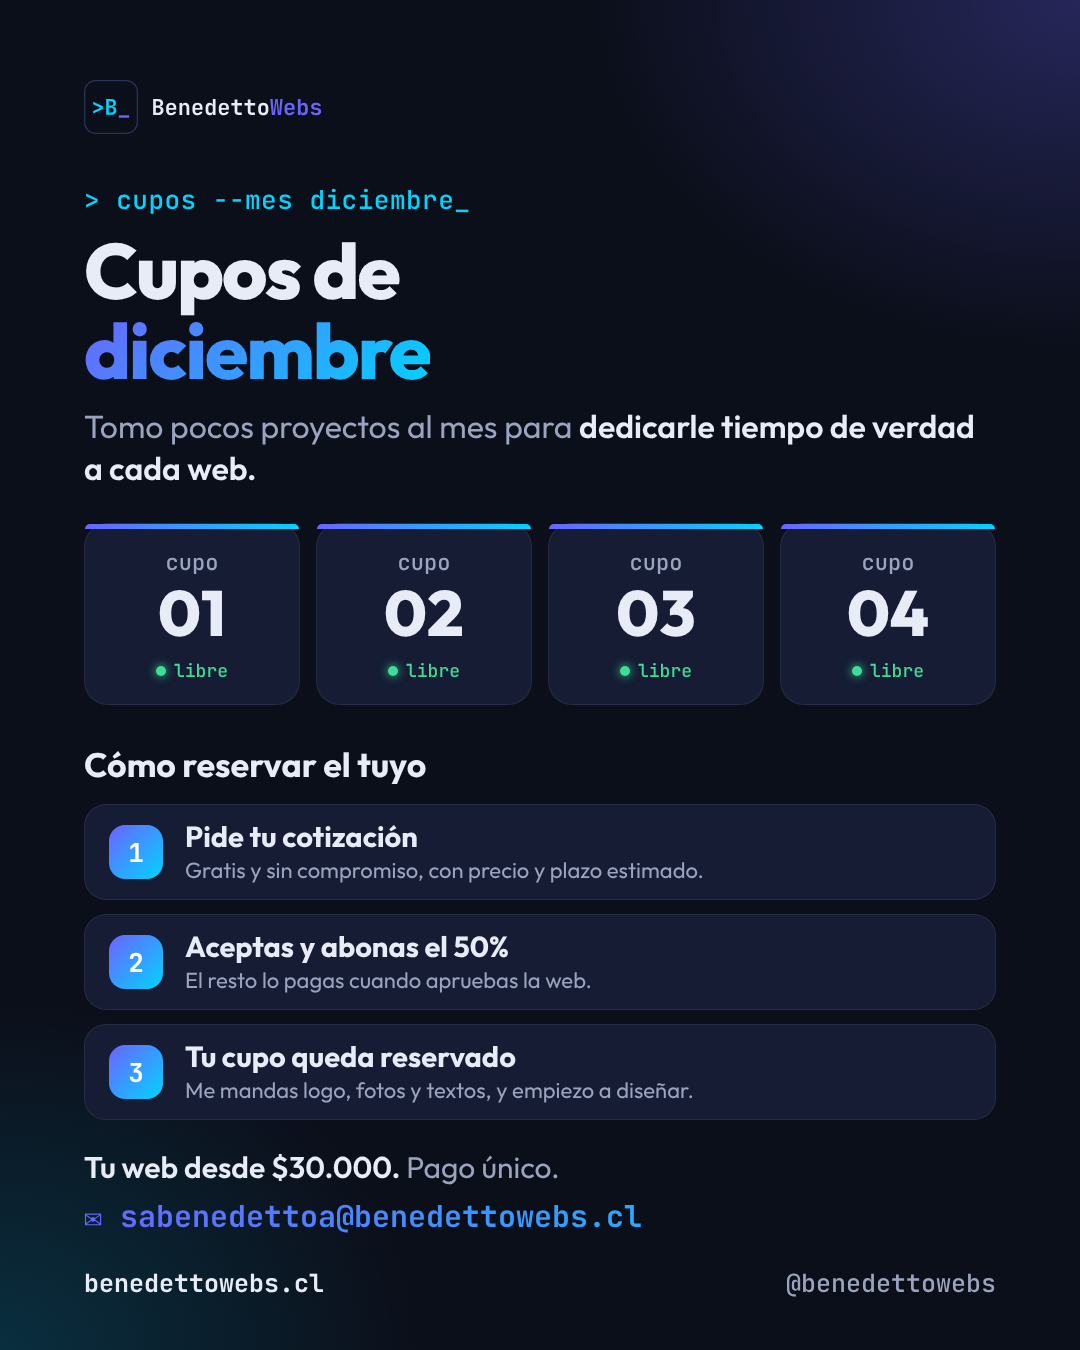
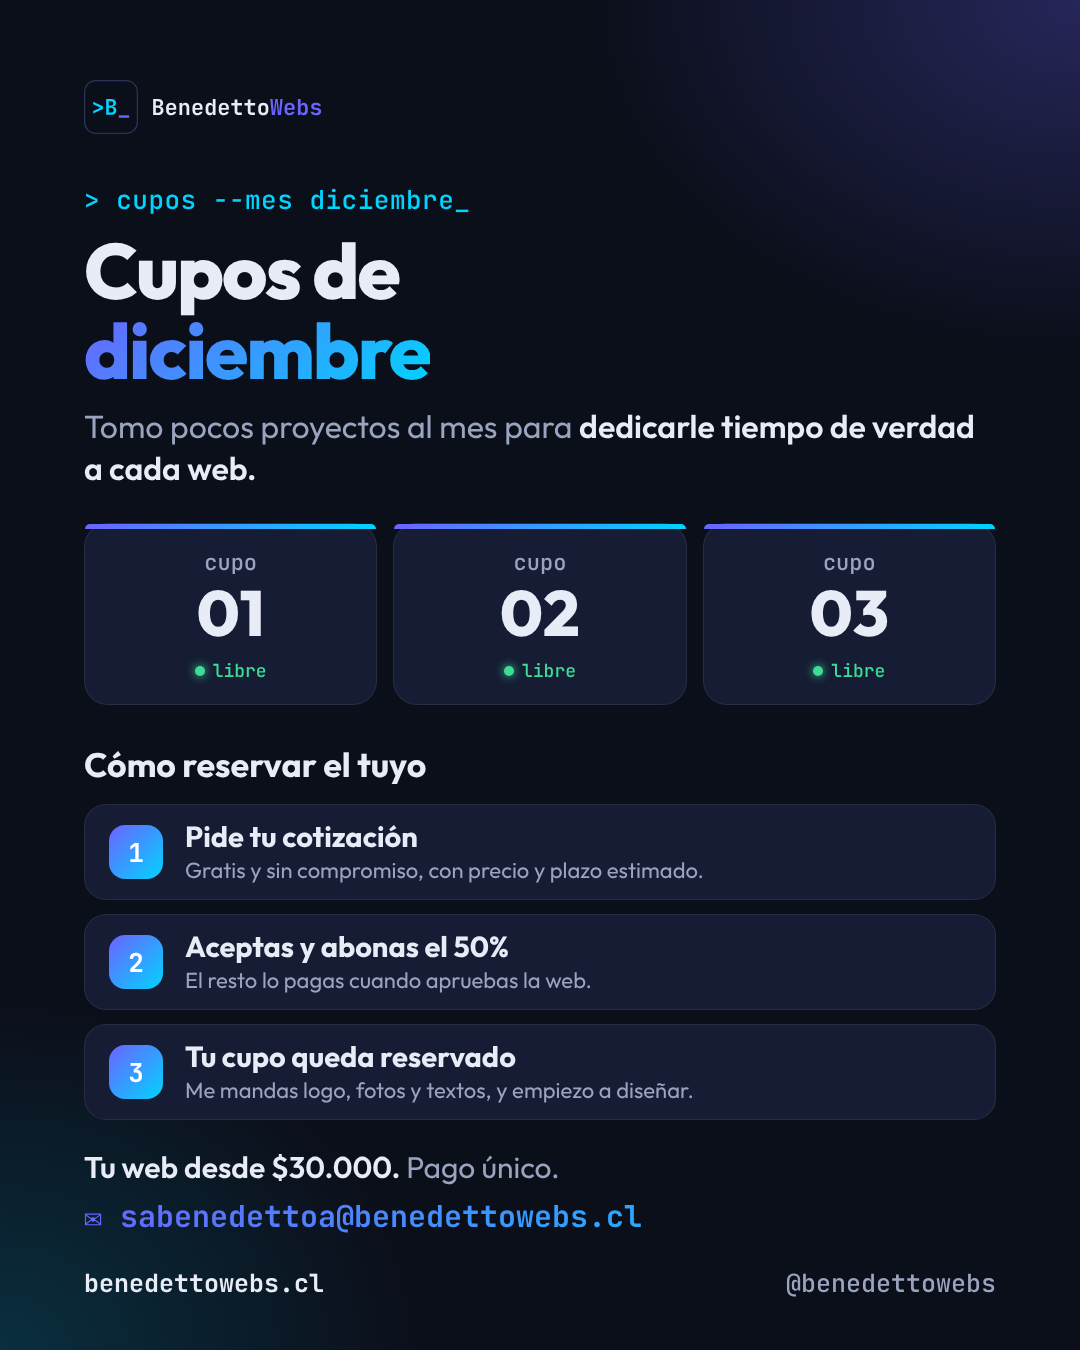
Deja el post de cupos de diciembre en 3 cupos
Claude-Session: https://claude.ai/code/session_01XEKfgffdH4Yu8uHvZCUjxV

Changed region(s): [[0.2444, 0.3733, 0.8556, 0.5289], [0.1528, 0.4044, 0.2444, 0.4978]]

diff --git a/posts/cupos.html b/posts/cupos.html
@@ -37,7 +37,7 @@
   .sub { margin-top: 16px; font-size: 32px; line-height: 1.3; color: var(--muted); }
   .sub b { color: var(--text); font-weight: 600; }
 
-  .slots { margin-top: 34px; display: grid; grid-template-columns: repeat(4, 1fr); gap: 16px; }
+  .slots { margin-top: 34px; display: grid; grid-template-columns: repeat(3, 1fr); gap: 16px; }
   .slot {
     background: var(--surface); border: 1px solid var(--border); border-radius: 24px;
     padding: 24px 20px 22px; text-align: center; position: relative;
@@ -93,7 +93,6 @@
     <div class="slot"><p class="n">cupo</p><p class="num">01</p><span class="st">libre</span></div>
     <div class="slot"><p class="n">cupo</p><p class="num">02</p><span class="st">libre</span></div>
     <div class="slot"><p class="n">cupo</p><p class="num">03</p><span class="st">libre</span></div>
-    <div class="slot"><p class="n">cupo</p><p class="num">04</p><span class="st">libre</span></div>
   </div>
 
   <p class="steps-t">Cómo reservar el tuyo</p>
